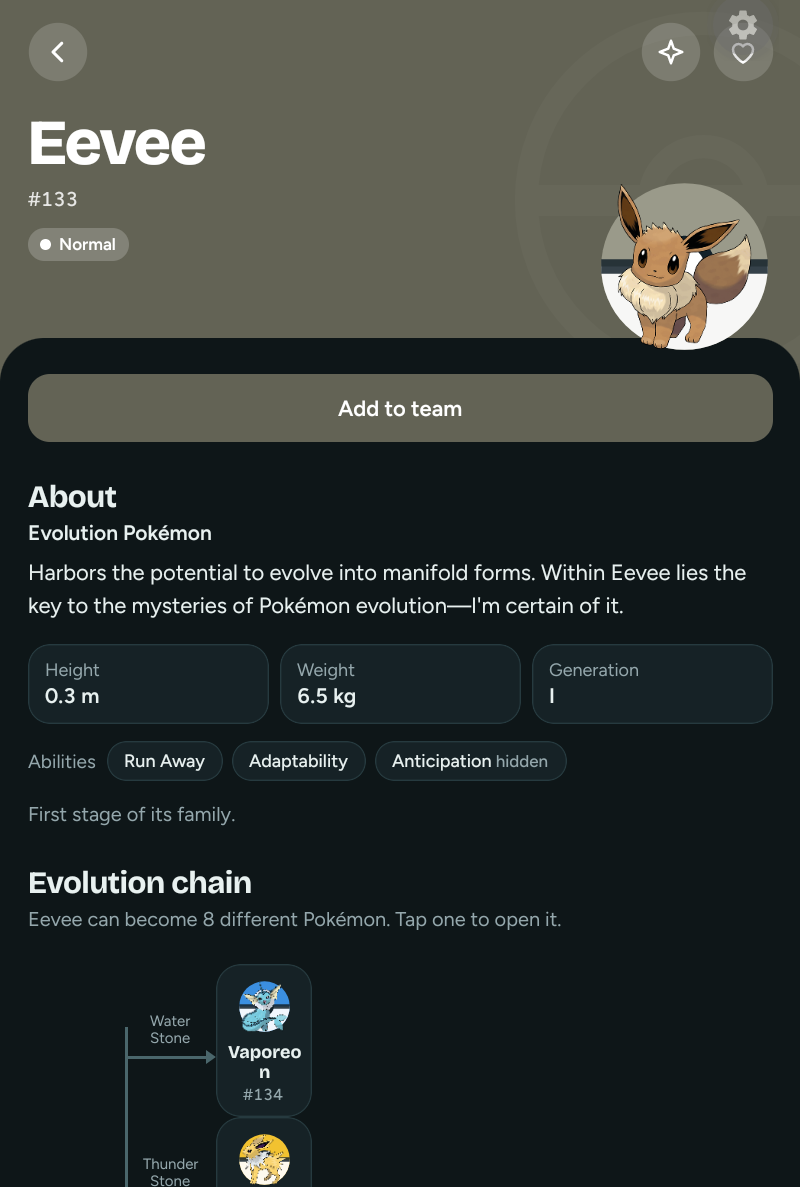
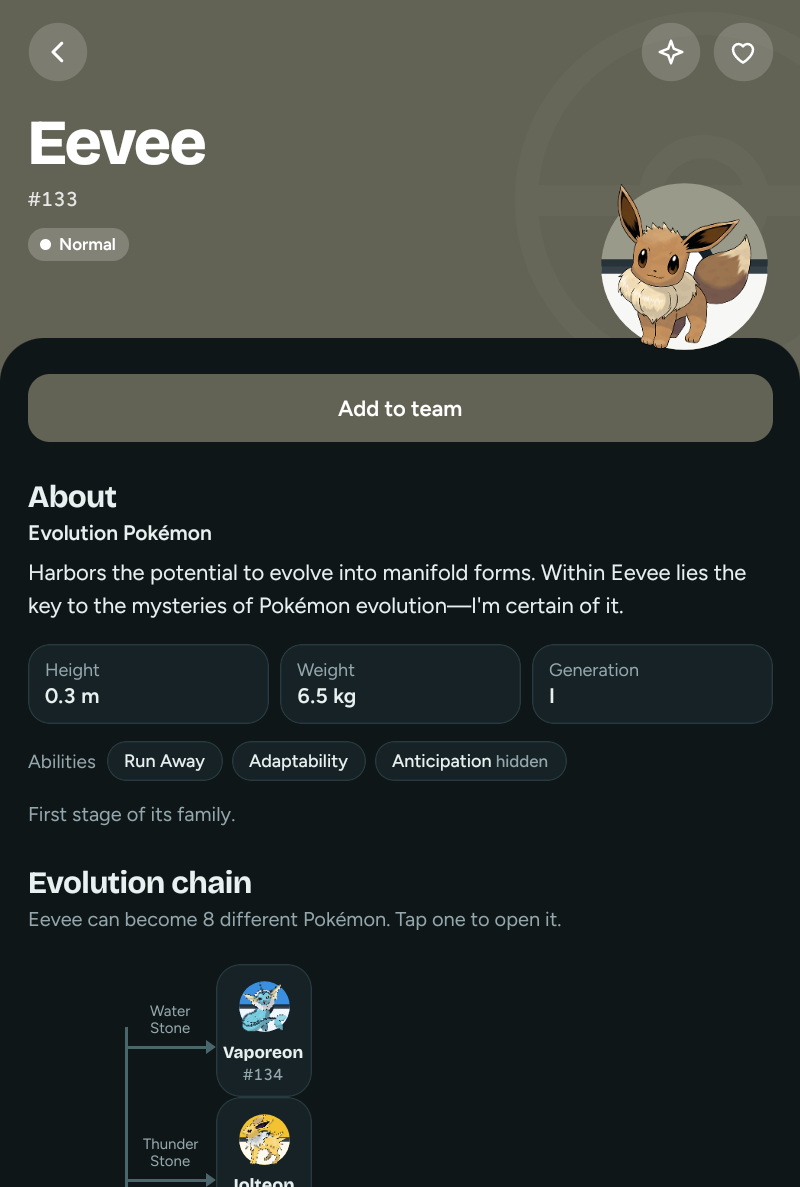
feat(website): screenshots from the 1.0.0 APK and Pages publishing
- Clean screenshots from the release build (no Expo Go overlay), plus the
  team weak-spot table in the gallery
- Footer credits Bossstrong-Dev and links the developer portfolio
- GitHub Actions workflow publishes website/ to GitHub Pages

Changed region(s): [[0.1562, 0.8416, 0.375, 1.0], [0.1562, 0.9663, 0.25, 1.0], [0.9062, 0.0, 0.9688, 0.0623]]

diff --git a/website/index.html b/website/index.html
@@ -177,7 +177,7 @@
     <section class="section split split-flip" aria-labelledby="team-title">
       <div class="wrap split-grid">
         <figure class="phone reveal">
-          <img src="assets/screens/team-light.webp" width="800" height="1187" loading="lazy" alt="The Team tab: two Pokémon chosen and four empty slots">
+          <img src="assets/screens/team-light.webp" width="800" height="1187" loading="lazy" alt="The Team tab: Charizard, Pikachu and Lapras chosen, three empty slots">
         </figure>
         <div class="split-copy reveal">
           <p class="kicker">Team builder</p>
@@ -201,6 +201,7 @@
         <figure class="shot"><div class="phone"><img src="assets/screens/list-dark.webp" width="800" height="1187" loading="lazy" alt="The Pokédex list in dark mode"></div><figcaption>The full Pokédex</figcaption></figure>
         <figure class="shot"><div class="phone"><img src="assets/screens/detail-light.webp" width="800" height="1187" loading="lazy" alt="Eevee's detail screen in light mode"></div><figcaption>Pokédex entry and facts</figcaption></figure>
         <figure class="shot"><div class="phone"><img src="assets/screens/sheet-light.webp" width="800" height="1187" loading="lazy" alt="The Add to team sheet with a searchable list of Pokémon"></div><figcaption>Add to your team</figcaption></figure>
+        <figure class="shot"><div class="phone"><img src="assets/screens/team-weak-light.webp" width="800" height="1187" loading="lazy" alt="The team's weak-spot table: for each attack type, how many team members are weak or resist, with Electric and Rock flagged as needing cover"></div><figcaption>Team weak spots</figcaption></figure>
         <figure class="shot"><div class="phone"><img src="assets/screens/detail-dark.webp" width="800" height="1187" loading="lazy" alt="Eevee's detail screen in dark mode"></div><figcaption>Dark mode</figcaption></figure>
       </div>
     </section>
@@ -232,8 +233,8 @@
     <div class="wrap footer-grid">
       <div>
         <p class="footer-brand">Dexplorer</p>
-        <p>Designed and built by <a href="https://bossstrong-dev.vercel.app/">Armstrong Aisosa</a>.</p>
-        <p><a href="https://bossstrong-dev.vercel.app/">Developer portfolio</a> · <a href="https://github.com/ARMSTRONG-AISOSA">GitHub</a></p>
+        <p>Designed and built by <a href="https://bossstrong-dev.vercel.app/">Bossstrong-Dev</a>.</p>
+        <p> <a href="https://github.com/ARMSTRONG-AISOSA">GitHub</a></p>
         <p>The code is open source under the <a href="https://github.com/ARMSTRONG-AISOSA/pokedex-mobile/blob/main/LICENSE">MIT License</a>.</p>
       </div>
       <div>

diff --git a/website/styles.css b/website/styles.css
@@ -237,6 +237,8 @@ nav { margin-left: auto; }
   scrollbar-width: thin;
 }
 .shot { flex: none; width: 260px; margin: 0; scroll-snap-align: center; }
+/* Wide screens: all five phones fit in one row, no sideways scrolling. */
+@media (min-width: 1160px) { .shot { width: 208px; } }
 .shot figcaption { margin-top: 14px; text-align: center; font-weight: 500; color: var(--muted); font-size: 15px; }
 
 /* Download */

diff --git a/website/pokedex-mobile-website.md b/website/pokedex-mobile-website.md
@@ -93,7 +93,7 @@ The body text is a little larger than the app's (17px rather than 16px) because 
 | Split section | Phone on one side, kicker + title + text + dot list on the other; sides alternate | n/a |
 | Gallery | Row of phone frames with captions; swipes sideways on phones | n/a |
 | Download card | Brand background, button, three numbered install steps | Launch screen colors |
-| Footer | Wordmark; “Designed and built by Armstrong Aisosa” linking to the developer portfolio (https://bossstrong-dev.vercel.app/), GitHub, MIT License, PokéAPI credit, fan-project disclaimer | n/a |
+| Footer | Wordmark; “Designed and built by Bossstrong-Dev” linking to the developer portfolio (https://bossstrong-dev.vercel.app/), GitHub, MIT License, PokéAPI credit, fan-project disclaimer | n/a |
 
 **Icons.** The icons are the app's own: search, moon, sun, heart, shield and sparkle, on a 24×24 grid with a 2px round stroke. Four new ones are drawn in the same style: evolution tree, offline, download and code. They are defined once in an inline SVG sprite and used with `<use>`.
 
@@ -199,7 +199,7 @@ All paths in the page are relative (`styles.css`, `assets/…`), so the site wor
 | Asset | Size |
 |---|---|
 | HTML + CSS + JS | about 32 KB uncompressed |
-| Screenshots | about 540 KB for all eight (lossless); below-the-fold images use `loading="lazy"` |
+| Screenshots | about 600 KB for all nine (lossless); below-the-fold images use `loading="lazy"` |
 | Share image | about 185 KB (only fetched by social networks) |
 | Fonts | 5 font files from Google Fonts, `display=swap` |
 
@@ -220,8 +220,8 @@ Check before every publish:
 
 ### 2.9 Before shipping
 
-- [ ] **Replace the screenshots** with ones from the release APK (`python3 website/tools/make-screens.py RAW_DIR`). The current ones come from the app running in Expo Go during testing: they show Expo Go's "Tools" button in the top-right corner, and the evolution screenshot still has a name-wrapping bug that has since been fixed. Then rerun `python3 website/tools/make-og-image.py` from the repo root.
-- [ ] **Publish the first GitHub Release** with the APK attached (Phase 11, EAS build), so the download buttons work.
+- [x] **Screenshots from the release APK** (1.0.0, tablet), processed with `python3 website/tools/make-screens.py RAW_DIR`; share image rebuilt with `python3 website/tools/make-og-image.py`.
+- [x] **First GitHub Release** published: [v1.0.0](https://github.com/ARMSTRONG-AISOSA/pokedex-mobile/releases/tag/v1.0.0) with `dexplorer-1.0.0.apk`.
 - [ ] **Add `.github/workflows/pages.yml`** and set Settings → Pages → Source to "GitHub Actions".
 - [ ] Run the §2.8 checks on the live URL, then add the link to the app's README.
 
